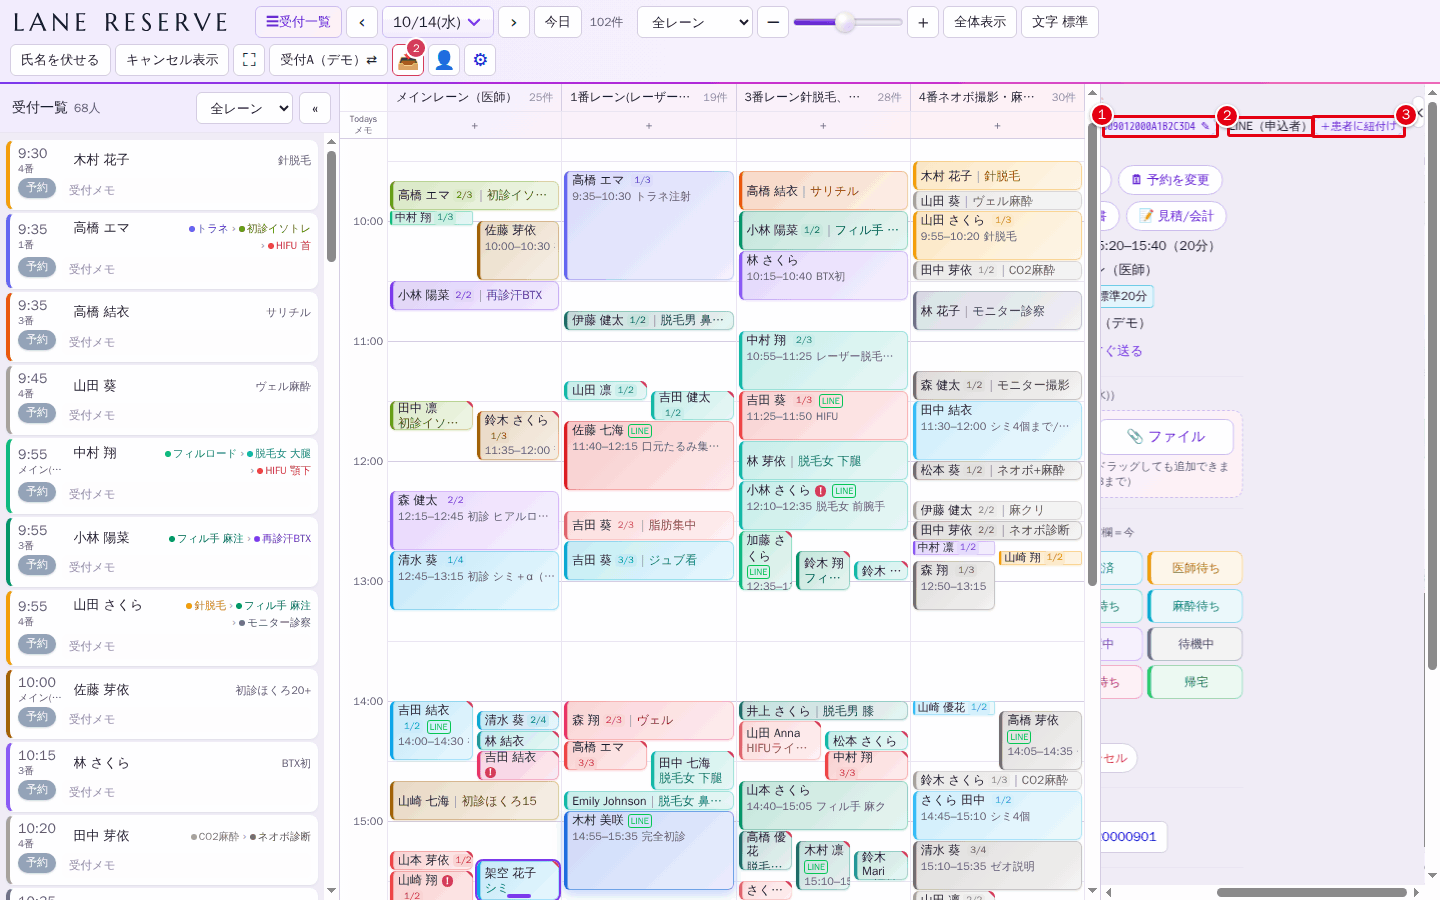
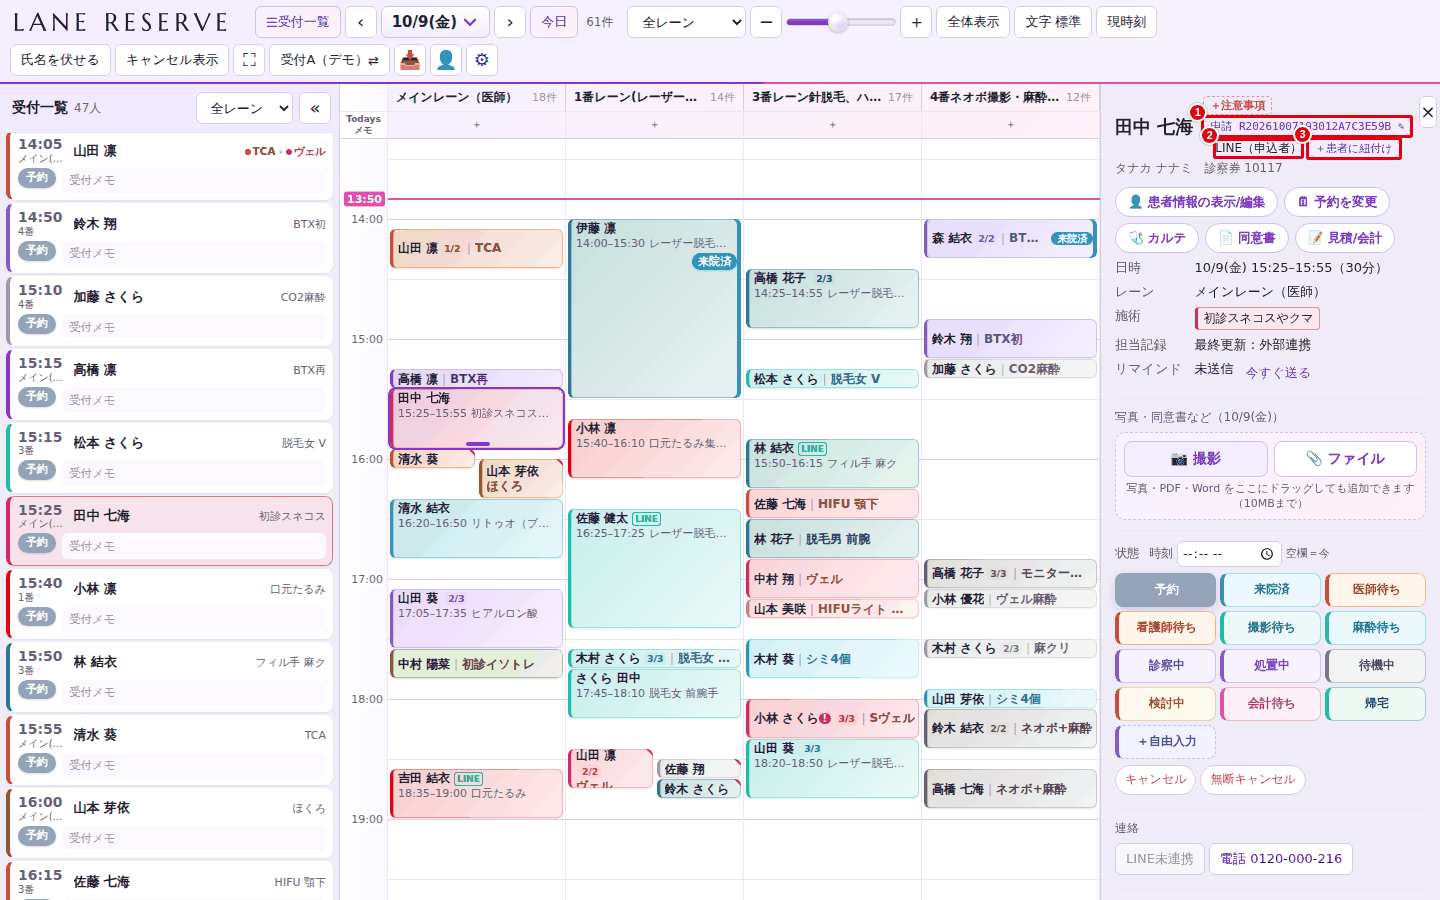
操作マニュアル：予約詳細の名前の行の折り返しに合わせて img/19 を撮り直し
Claude-Session: https://claude.ai/code/session_01QVwqemKgjejDT1q69zBnSy

diff --git a/apps/reserve/docs/manual/manual.html b/apps/reserve/docs/manual/manual.html
@@ -401,7 +401,7 @@ main h2, main h3 { scroll-margin-top: 72px; }
 <p>予約申請IDが入った予約の詳細では、名前の行に <strong>「申請 R…」</strong>（①）が出ます。申請IDの申込者の LINE が見つかり、申請の氏名・フリガナ・電話のどれか、または生年月日が患者と合うとき（生年月日が両方に入っていて違うときは不一致）は <strong>「LINE（申込者）」</strong>（②）と出て、リマインドはその LINE に届きます。患者にまだ LINE が紐付いていなければ <strong>「＋患者に紐付け」</strong>（③）も出ます。</p>
 <ul>
 <li>申請IDの申請が見つからないときは赤い字で「LINE 不明」、名前・生年月日が合わないときは「⚠ 申請と患者が不一致」と出ます。このときは LINE では送りません。申請IDを確かめてください。</li>
-<li>名前の行が長いと、詳細パネルの右に隠れることがあります。詳細パネルを横にずらす（スクロールする）と見えます。</li>
+<li>名前の行に入りきらないときは、「LINE（申込者）」や「＋患者に紐付け」が次の行に折り返して出ます。</li>
 </ul>
 <figure><button class="zoom" type="button" data-src="img/19-line-request-badge.png" aria-label="拡大：申請のLINE"><img src="img/19-line-request-badge.png" alt="申請のLINE" width="1440" height="900" loading="lazy"></button><figcaption>申請のLINE</figcaption></figure>
 <p>「＋患者に紐付け」を押すと、「申請の名前・生年月日が『○○』さんと合っています。この LINE を患者に紐付けますか？」とブラウザの確認が出ます。<strong>OK</strong>（①）で紐付け（「LINE を紐付けました」と出ます）、<strong>キャンセル</strong>（②）でやめます。紐付けると、電話・窓口で取った予約にも LINE でリマインドが届くようになります。<strong>家族が代わりに申し込んだ場合は、紐付けないでください。</strong>（この写真は、ブラウザの枠ごと撮っています）</p>

diff --git a/apps/reserve/docs/manual/README.md b/apps/reserve/docs/manual/README.md
@@ -209,7 +209,7 @@
 予約申請IDが入った予約の詳細では、名前の行に **「申請 R…」**（①）が出ます。申請IDの申込者の LINE が見つかり、申請の氏名・フリガナ・電話のどれか、または生年月日が患者と合うとき（生年月日が両方に入っていて違うときは不一致）は **「LINE（申込者）」**（②）と出て、リマインドはその LINE に届きます。患者にまだ LINE が紐付いていなければ **「＋患者に紐付け」**（③）も出ます。
 
 - 申請IDの申請が見つからないときは赤い字で「LINE 不明」、名前・生年月日が合わないときは「⚠ 申請と患者が不一致」と出ます。このときは LINE では送りません。申請IDを確かめてください。
-- 名前の行が長いと、詳細パネルの右に隠れることがあります。詳細パネルを横にずらす（スクロールする）と見えます。
+- 名前の行に入りきらないときは、「LINE（申込者）」や「＋患者に紐付け」が次の行に折り返して出ます。
 
 ![申請のLINE](img/19-line-request-badge.png)
 
